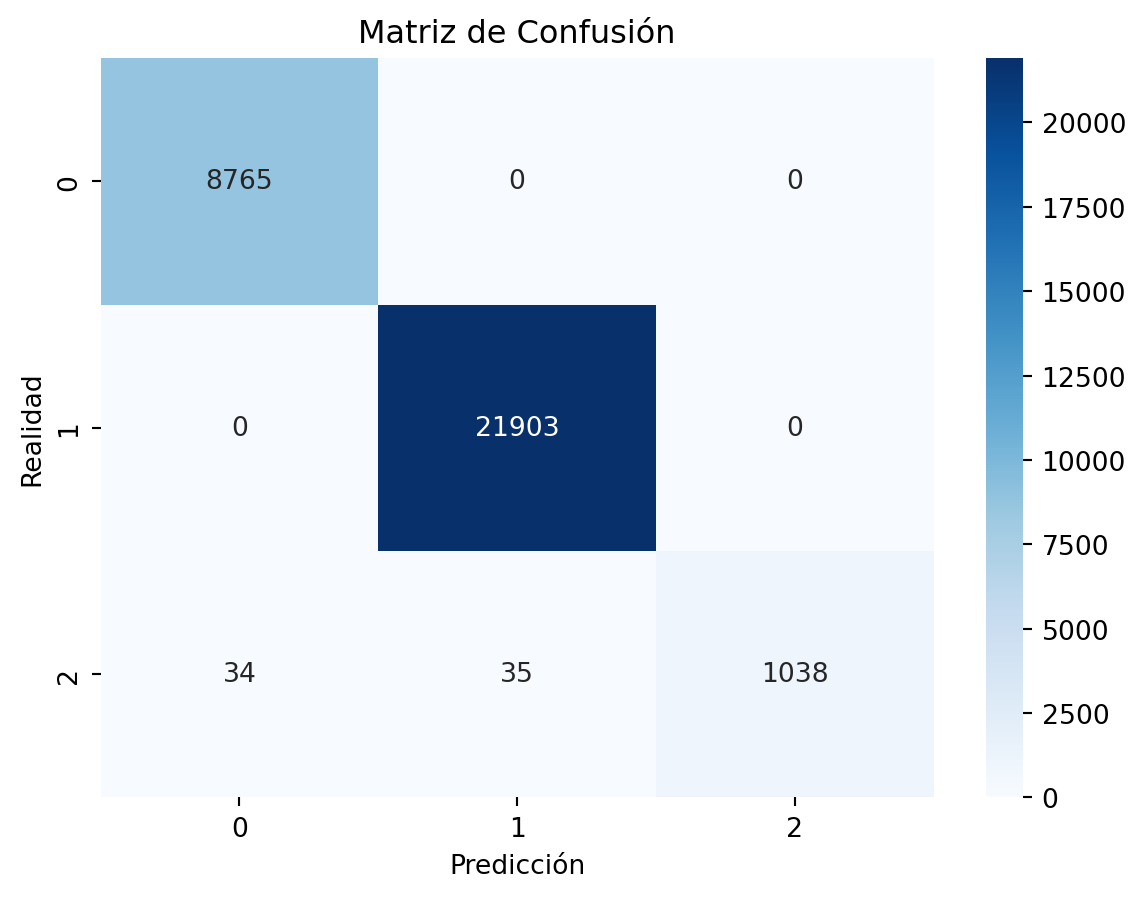
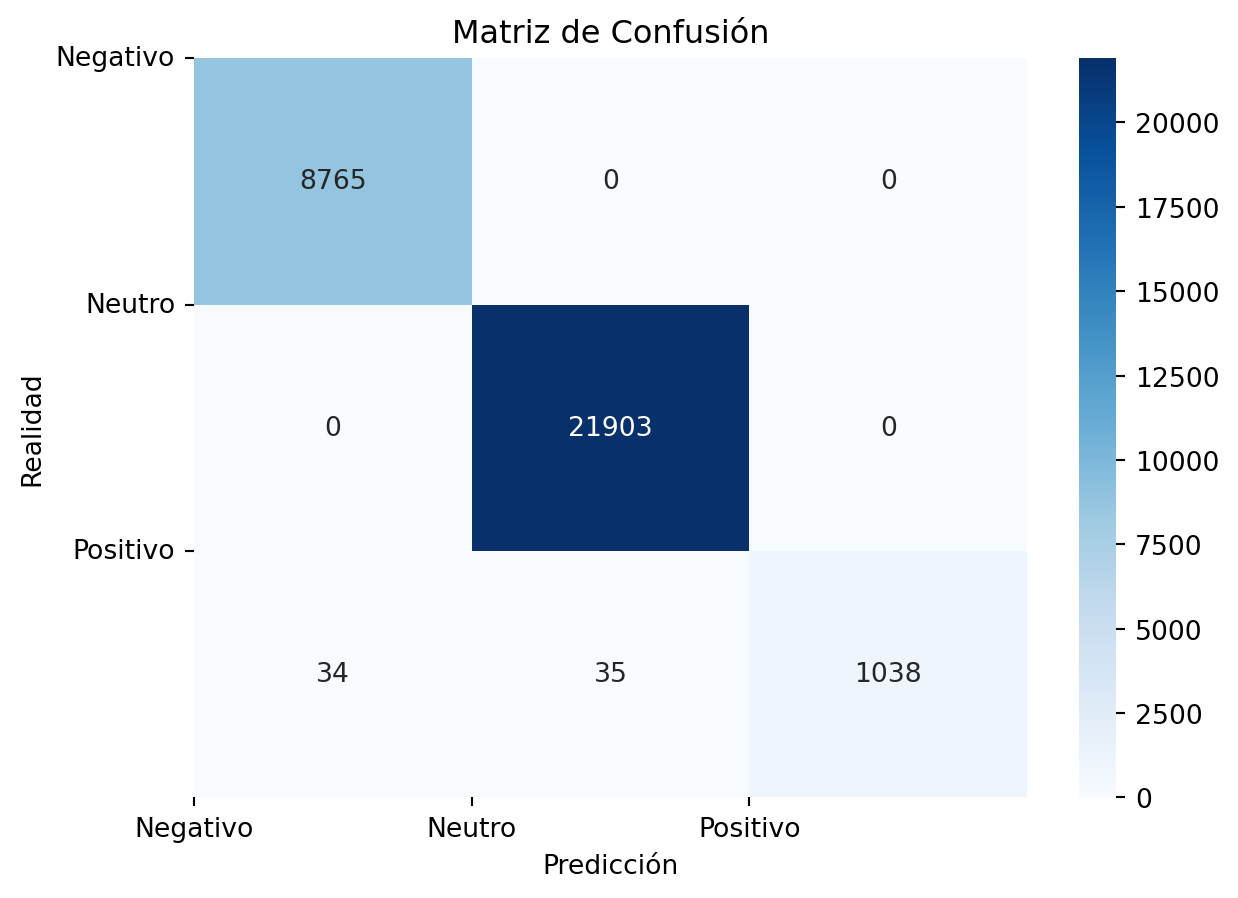
LaboV6

diff --git a/docs/laboratorio2.html b/docs/laboratorio2.html
@@ -327,7 +327,7 @@ pre > code.sourceCode > span > a:first-child::before { text-decoration: underlin
 </section>
 <section id="importar-librerías" class="level1">
 <h1>Importar librerías</h1>
-<div id="a6e59641" class="cell" data-execution_count="1">
+<div id="db11bc9c" class="cell" data-execution_count="1">
 <div class="code-copy-outer-scaffold"><div class="sourceCode cell-code" id="cb1"><pre class="sourceCode python code-with-copy"><code class="sourceCode python"><span id="cb1-1"><a href="#cb1-1" aria-hidden="true" tabindex="-1"></a><span class="im">import</span> pandas <span class="im">as</span> pd</span>
 <span id="cb1-2"><a href="#cb1-2" aria-hidden="true" tabindex="-1"></a><span class="im">from</span> sklearn.datasets <span class="im">import</span> fetch_20newsgroups</span>
 <span id="cb1-3"><a href="#cb1-3" aria-hidden="true" tabindex="-1"></a><span class="im">from</span> sklearn.model_selection <span class="im">import</span> train_test_split</span>
@@ -373,7 +373,7 @@ pre > code.sourceCode > span > a:first-child::before { text-decoration: underlin
 <h1>1. Explorar el dataset y eliminar los features que no considere relevantes para el análisis.</h1>
 <section id="cargar-dataset-y-explorar" class="level2">
 <h2 class="anchored" data-anchor-id="cargar-dataset-y-explorar">Cargar dataset y explorar</h2>
-<div id="86266040" class="cell" data-execution_count="2">
+<div id="c41f91c8" class="cell" data-execution_count="2">
 <div class="code-copy-outer-scaffold"><div class="sourceCode cell-code" id="cb3"><pre class="sourceCode python code-with-copy"><code class="sourceCode python"><span id="cb3-1"><a href="#cb3-1" aria-hidden="true" tabindex="-1"></a>url <span class="op">=</span> <span class="st">"https://raw.githubusercontent.com/erickedu85/dataset/refs/heads/master/tweets/tweets_totales_con_sentimiento_ml.csv"</span></span>
 <span id="cb3-2"><a href="#cb3-2" aria-hidden="true" tabindex="-1"></a></span>
 <span id="cb3-3"><a href="#cb3-3" aria-hidden="true" tabindex="-1"></a><span class="co"># 1. Cargar el dataset</span></span>
@@ -390,7 +390,7 @@ pre > code.sourceCode > span > a:first-child::before { text-decoration: underlin
 </section>
 <section id="explorar-el-dataset-eda" class="level2">
 <h2 class="anchored" data-anchor-id="explorar-el-dataset-eda">Explorar el dataset EDA</h2>
-<div id="2c0943a1" class="cell" data-execution_count="3">
+<div id="a963ed05" class="cell" data-execution_count="3">
 <div class="code-copy-outer-scaffold"><div class="sourceCode cell-code" id="cb5"><pre class="sourceCode python code-with-copy"><code class="sourceCode python"><span id="cb5-1"><a href="#cb5-1" aria-hidden="true" tabindex="-1"></a>df.head()</span>
 <span id="cb5-2"><a href="#cb5-2" aria-hidden="true" tabindex="-1"></a>df.info()</span>
 <span id="cb5-3"><a href="#cb5-3" aria-hidden="true" tabindex="-1"></a>df.describe()</span>
@@ -441,7 +441,7 @@ Columnas disponibles: ['tweetId', 'tweetUrl', 'content', 'isReply', 'replyTo', '
 </section>
 <section id="eliminar-features-no-relevantes" class="level2">
 <h2 class="anchored" data-anchor-id="eliminar-features-no-relevantes">Eliminar features no relevantes</h2>
-<div id="52a2f9c2" class="cell" data-execution_count="4">
+<div id="b2110248" class="cell" data-execution_count="4">
 <div class="code-copy-outer-scaffold"><div class="sourceCode cell-code" id="cb7"><pre class="sourceCode python code-with-copy"><code class="sourceCode python"><span id="cb7-1"><a href="#cb7-1" aria-hidden="true" tabindex="-1"></a><span class="co"># Eliminar columnas irrelevantes</span></span>
 <span id="cb7-2"><a href="#cb7-2" aria-hidden="true" tabindex="-1"></a>df <span class="op">=</span> df.drop(columns<span class="op">=</span>[<span class="st">'tweetId'</span>, <span class="st">'tweetUrl'</span>, <span class="st">'replyTo'</span>, <span class="st">'createdAt'</span>, <span class="st">'authorId'</span>, <span class="st">'authorName'</span>, <span class="st">'authorUsername'</span>,  <span class="st">'authorFollowers'</span>, <span class="st">'source'</span>, <span class="st">'hashtags'</span>, <span class="st">'mentions'</span>, <span class="st">'Date'</span>, <span class="st">'time_response'</span>, <span class="st">'account_age_days'</span>, <span class="st">'mentions_count'</span>, <span class="st">'hashtags_count'</span>, <span class="st">'content_length'</span>, <span class="st">'sentiment_polarity'</span>])</span>
 <span id="cb7-3"><a href="#cb7-3" aria-hidden="true" tabindex="-1"></a>df.info()</span></code></pre></div><button title="Copy to Clipboard" class="code-copy-button"><i class="bi"></i></button></div>
@@ -465,7 +465,7 @@ memory usage: 6.5+ MB</code></pre>
 </div>
 <section id="vader-es-una-herramienta-de-análisis-de-sentimientos-basada-en-reglas-altamente-optimizada-para-texto-en-redes-sociales-que-utiliza-un-diccionario-llamado-lexicon-diseñado-específicamente-para-el-análisis-de-sentimientos." class="level3">
 <h3 class="anchored" data-anchor-id="vader-es-una-herramienta-de-análisis-de-sentimientos-basada-en-reglas-altamente-optimizada-para-texto-en-redes-sociales-que-utiliza-un-diccionario-llamado-lexicon-diseñado-específicamente-para-el-análisis-de-sentimientos.">VADER es una herramienta de análisis de sentimientos basada en reglas, altamente optimizada para texto en redes sociales, que utiliza un diccionario llamado Lexicon , diseñado específicamente para el análisis de sentimientos.</h3>
-<div id="5bead288" class="cell" data-execution_count="5">
+<div id="cf8c87b9" class="cell" data-execution_count="5">
 <div class="code-copy-outer-scaffold"><div class="sourceCode cell-code" id="cb9"><pre class="sourceCode python code-with-copy"><code class="sourceCode python"><span id="cb9-1"><a href="#cb9-1" aria-hidden="true" tabindex="-1"></a><span class="kw">def</span> classify_sentiment(text):</span>
 <span id="cb9-2"><a href="#cb9-2" aria-hidden="true" tabindex="-1"></a>    <span class="co">"""</span></span>
 <span id="cb9-3"><a href="#cb9-3" aria-hidden="true" tabindex="-1"></a><span class="co">    Calcula el puntaje de polaridad compuesto (compound score)</span></span>
@@ -493,7 +493,7 @@ memory usage: 6.5+ MB</code></pre>
 <h1>2. Derivar o seleccionar la variable objetivo (target) para una tarea de clasificación.</h1>
 <section id="seleccionar-la-variable-objetivo" class="level2">
 <h2 class="anchored" data-anchor-id="seleccionar-la-variable-objetivo">Seleccionar la variable objetivo</h2>
-<div id="f46e148a" class="cell" data-execution_count="6">
+<div id="61adf256" class="cell" data-execution_count="6">
 <div class="code-copy-outer-scaffold"><div class="sourceCode cell-code" id="cb10"><pre class="sourceCode python code-with-copy"><code class="sourceCode python"><span id="cb10-1"><a href="#cb10-1" aria-hidden="true" tabindex="-1"></a><span class="co"># Clasificar los tweets según su sentimiento</span></span>
 <span id="cb10-2"><a href="#cb10-2" aria-hidden="true" tabindex="-1"></a>df[<span class="st">'sentiment'</span>] <span class="op">=</span> df[<span class="st">'content'</span>].<span class="bu">apply</span>(classify_sentiment) <span class="co"># Crear la variable objetivo basada en el contenido del tweet</span></span>
 <span id="cb10-3"><a href="#cb10-3" aria-hidden="true" tabindex="-1"></a></span>
@@ -513,7 +513,7 @@ Name: count, dtype: int64</code></pre>
 <h1>3. Preprocesar variables categóricas mediante técnicas como OneHotEncoder, OrdinalEncoder u otras que consideren pertinentes.</h1>
 <section id="preprocesar-variables-categóricas" class="level2">
 <h2 class="anchored" data-anchor-id="preprocesar-variables-categóricas">Preprocesar variables categóricas</h2>
-<div id="c89a20ce" class="cell" data-execution_count="7">
+<div id="801fa24a" class="cell" data-execution_count="7">
 <div class="code-copy-outer-scaffold"><div class="sourceCode cell-code" id="cb12"><pre class="sourceCode python code-with-copy"><code class="sourceCode python"><span id="cb12-1"><a href="#cb12-1" aria-hidden="true" tabindex="-1"></a><span class="im">from</span> sklearn.preprocessing <span class="im">import</span> OneHotEncoder</span>
 <span id="cb12-2"><a href="#cb12-2" aria-hidden="true" tabindex="-1"></a></span>
 <span id="cb12-3"><a href="#cb12-3" aria-hidden="true" tabindex="-1"></a><span class="co"># Aplicar OneHotEncoder a las variables categóricas</span></span>
@@ -528,7 +528,7 @@ Name: count, dtype: int64</code></pre>
 <h1>4. Preprocesar el contenido textual del tweet (content) utilizando técnicas de vectorización como CountVectorizer o TfidfVectorizer. Pueden aplicar limpieza de texto, eliminación de stopwords, y lematización si lo consideran relevante, etc.</h1>
 <section id="preprocesamiento-del-texto" class="level2">
 <h2 class="anchored" data-anchor-id="preprocesamiento-del-texto">Preprocesamiento del texto</h2>
-<div id="93b3536e" class="cell" data-execution_count="8">
+<div id="20e80c79" class="cell" data-execution_count="8">
 <div class="code-copy-outer-scaffold"><div class="sourceCode cell-code" id="cb13"><pre class="sourceCode python code-with-copy"><code class="sourceCode python"><span id="cb13-1"><a href="#cb13-1" aria-hidden="true" tabindex="-1"></a><span class="co"># Extraer el contenido textual</span></span>
 <span id="cb13-2"><a href="#cb13-2" aria-hidden="true" tabindex="-1"></a>corpus <span class="op">=</span> df[<span class="st">'content'</span>].astype(<span class="bu">str</span>).tolist()</span>
 <span id="cb13-3"><a href="#cb13-3" aria-hidden="true" tabindex="-1"></a><span class="co"># Crear el vectorizador (CountVectorizer o TfidfVectorizer)</span></span>
@@ -543,7 +543,7 @@ Name: count, dtype: int64</code></pre>
 <h1>5. Crear un pipeline de preprocesamiento utilizando ColumnTransformer o estructuras equivalentes para unir variables categóricas, textuales y numéricas (si aplica).</h1>
 <section id="crear-el-pipeline" class="level2">
 <h2 class="anchored" data-anchor-id="crear-el-pipeline">Crear el pipeline</h2>
-<div id="20a6d506" class="cell" data-execution_count="9">
+<div id="52a41cbf" class="cell" data-execution_count="9">
 <div class="code-copy-outer-scaffold"><div class="sourceCode cell-code" id="cb14"><pre class="sourceCode python code-with-copy"><code class="sourceCode python"><span id="cb14-1"><a href="#cb14-1" aria-hidden="true" tabindex="-1"></a><span class="im">from</span> sklearn.compose <span class="im">import</span> ColumnTransformer</span>
 <span id="cb14-2"><a href="#cb14-2" aria-hidden="true" tabindex="-1"></a><span class="im">from</span> sklearn.pipeline <span class="im">import</span> Pipeline</span>
 <span id="cb14-3"><a href="#cb14-3" aria-hidden="true" tabindex="-1"></a></span>
@@ -568,7 +568,7 @@ Name: count, dtype: int64</code></pre>
 <h1>6. Entrenar un modelo de clasificación. Aunque el foco no está en los modelos, deben aplicar al menos uno entre:</h1>
 <section id="logisticregression" class="level2">
 <h2 class="anchored" data-anchor-id="logisticregression">LogisticRegression</h2>
-<div id="3b05711c" class="cell" data-execution_count="10">
+<div id="277764a2" class="cell" data-execution_count="10">
 <div class="code-copy-outer-scaffold"><div class="sourceCode cell-code" id="cb15"><pre class="sourceCode python code-with-copy"><code class="sourceCode python"><span id="cb15-1"><a href="#cb15-1" aria-hidden="true" tabindex="-1"></a><span class="im">from</span> sklearn.linear_model <span class="im">import</span> LogisticRegression</span>
 <span id="cb15-2"><a href="#cb15-2" aria-hidden="true" tabindex="-1"></a><span class="im">from</span> sklearn.model_selection <span class="im">import</span> train_test_split</span>
 <span id="cb15-3"><a href="#cb15-3" aria-hidden="true" tabindex="-1"></a></span>
@@ -590,37 +590,44 @@ Name: count, dtype: int64</code></pre>
 <h1>7. Evaluar el desempeño del modelo utilizando:</h1>
 <section id="classification_report" class="level2">
 <h2 class="anchored" data-anchor-id="classification_report">classification_report</h2>
-<div id="2267e677" class="cell" data-execution_count="11">
+<div id="72b552ce" class="cell" data-execution_count="11">
 <div class="code-copy-outer-scaffold"><div class="sourceCode cell-code" id="cb16"><pre class="sourceCode python code-with-copy"><code class="sourceCode python"><span id="cb16-1"><a href="#cb16-1" aria-hidden="true" tabindex="-1"></a><span class="co">##  confusion_matrix</span></span>
 <span id="cb16-2"><a href="#cb16-2" aria-hidden="true" tabindex="-1"></a><span class="im">from</span> sklearn.metrics <span class="im">import</span> confusion_matrix</span>
 <span id="cb16-3"><a href="#cb16-3" aria-hidden="true" tabindex="-1"></a><span class="im">import</span> seaborn <span class="im">as</span> sns</span>
 <span id="cb16-4"><a href="#cb16-4" aria-hidden="true" tabindex="-1"></a><span class="im">import</span> matplotlib.pyplot <span class="im">as</span> plt</span>
 <span id="cb16-5"><a href="#cb16-5" aria-hidden="true" tabindex="-1"></a>cm <span class="op">=</span> confusion_matrix(y_test, y_pred)</span>
 <span id="cb16-6"><a href="#cb16-6" aria-hidden="true" tabindex="-1"></a>sns.heatmap(cm, annot<span class="op">=</span><span class="va">True</span>, fmt<span class="op">=</span><span class="st">'d'</span>, cmap<span class="op">=</span><span class="st">'Blues'</span>)  </span>
-<span id="cb16-7"><a href="#cb16-7" aria-hidden="true" tabindex="-1"></a>plt.xlabel(<span class="st">'Predicción'</span>)</span>
-<span id="cb16-8"><a href="#cb16-8" aria-hidden="true" tabindex="-1"></a>plt.ylabel(<span class="st">'Realidad'</span>)</span>
-<span id="cb16-9"><a href="#cb16-9" aria-hidden="true" tabindex="-1"></a>plt.title(<span class="st">'Matriz de Confusión'</span>)</span>
-<span id="cb16-10"><a href="#cb16-10" aria-hidden="true" tabindex="-1"></a>plt.show()  </span>
-<span id="cb16-11"><a href="#cb16-11" aria-hidden="true" tabindex="-1"></a><span class="co">##  ConfusionMatrixDisplay</span></span>
-<span id="cb16-12"><a href="#cb16-12" aria-hidden="true" tabindex="-1"></a><span class="im">from</span> sklearn.metrics <span class="im">import</span> ConfusionMatrixDisplay</span>
-<span id="cb16-13"><a href="#cb16-13" aria-hidden="true" tabindex="-1"></a>disp <span class="op">=</span> ConfusionMatrixDisplay(confusion_matrix<span class="op">=</span>cm)</span>
-<span id="cb16-14"><a href="#cb16-14" aria-hidden="true" tabindex="-1"></a>disp.plot()</span>
-<span id="cb16-15"><a href="#cb16-15" aria-hidden="true" tabindex="-1"></a>disp.ax_.set_title(<span class="st">'Matriz de Confusión'</span>)</span>
-<span id="cb16-16"><a href="#cb16-16" aria-hidden="true" tabindex="-1"></a><span class="co"># etiquetas de los ejes</span></span>
-<span id="cb16-17"><a href="#cb16-17" aria-hidden="true" tabindex="-1"></a>disp.ax_.set_xlabel(<span class="st">'Predicción'</span>)</span>
-<span id="cb16-18"><a href="#cb16-18" aria-hidden="true" tabindex="-1"></a>disp.ax_.set_ylabel(<span class="st">'Realidad'</span>)</span>
-<span id="cb16-19"><a href="#cb16-19" aria-hidden="true" tabindex="-1"></a>plt.show()</span></code></pre></div><button title="Copy to Clipboard" class="code-copy-button"><i class="bi"></i></button></div>
+<span id="cb16-7"><a href="#cb16-7" aria-hidden="true" tabindex="-1"></a>plt.xticks(ticks<span class="op">=</span><span class="bu">range</span>(<span class="bu">len</span>(model.classes_)), labels<span class="op">=</span>model.classes_)</span>
+<span id="cb16-8"><a href="#cb16-8" aria-hidden="true" tabindex="-1"></a>plt.yticks(ticks<span class="op">=</span><span class="bu">range</span>(<span class="bu">len</span>(model.classes_)), labels<span class="op">=</span>model.classes_, rotation<span class="op">=</span><span class="dv">0</span>)</span>
+<span id="cb16-9"><a href="#cb16-9" aria-hidden="true" tabindex="-1"></a>plt.xlabel(<span class="st">'Predicción'</span>)</span>
+<span id="cb16-10"><a href="#cb16-10" aria-hidden="true" tabindex="-1"></a>plt.ylabel(<span class="st">'Realidad'</span>)</span>
+<span id="cb16-11"><a href="#cb16-11" aria-hidden="true" tabindex="-1"></a>plt.title(<span class="st">'Matriz de Confusión'</span>)</span>
+<span id="cb16-12"><a href="#cb16-12" aria-hidden="true" tabindex="-1"></a>plt.show()  </span>
+<span id="cb16-13"><a href="#cb16-13" aria-hidden="true" tabindex="-1"></a><span class="co">##  ConfusionMatrixDisplay</span></span>
+<span id="cb16-14"><a href="#cb16-14" aria-hidden="true" tabindex="-1"></a><span class="im">from</span> sklearn.metrics <span class="im">import</span> ConfusionMatrixDisplay</span>
+<span id="cb16-15"><a href="#cb16-15" aria-hidden="true" tabindex="-1"></a>disp <span class="op">=</span> ConfusionMatrixDisplay(confusion_matrix<span class="op">=</span>cm)</span>
+<span id="cb16-16"><a href="#cb16-16" aria-hidden="true" tabindex="-1"></a>disp.plot()</span>
+<span id="cb16-17"><a href="#cb16-17" aria-hidden="true" tabindex="-1"></a>disp.ax_.set_title(<span class="st">'Matriz de Confusión'</span>)</span>
+<span id="cb16-18"><a href="#cb16-18" aria-hidden="true" tabindex="-1"></a><span class="co"># etiquetas de los ejes</span></span>
+<span id="cb16-19"><a href="#cb16-19" aria-hidden="true" tabindex="-1"></a><span class="co"># etiqueta los labels de los ejes</span></span>
+<span id="cb16-20"><a href="#cb16-20" aria-hidden="true" tabindex="-1"></a>disp.ax_.set_xticks(<span class="bu">range</span>(<span class="bu">len</span>(model.classes_)))</span>
+<span id="cb16-21"><a href="#cb16-21" aria-hidden="true" tabindex="-1"></a>disp.ax_.set_yticks(<span class="bu">range</span>(<span class="bu">len</span>(model.classes_))) </span>
+<span id="cb16-22"><a href="#cb16-22" aria-hidden="true" tabindex="-1"></a>disp.ax_.set_xticklabels(model.classes_)</span>
+<span id="cb16-23"><a href="#cb16-23" aria-hidden="true" tabindex="-1"></a>disp.ax_.set_yticklabels(model.classes_)</span>
+<span id="cb16-24"><a href="#cb16-24" aria-hidden="true" tabindex="-1"></a>disp.ax_.set_xlabel(<span class="st">'Predicción'</span>)</span>
+<span id="cb16-25"><a href="#cb16-25" aria-hidden="true" tabindex="-1"></a>disp.ax_.set_ylabel(<span class="st">'Realidad'</span>)</span>
+<span id="cb16-26"><a href="#cb16-26" aria-hidden="true" tabindex="-1"></a>plt.show()</span></code></pre></div><button title="Copy to Clipboard" class="code-copy-button"><i class="bi"></i></button></div>
 <div class="cell-output cell-output-display">
 <div>
 <figure class="figure">
-<p><img src="laboratorio2_files/figure-html/cell-12-output-1.png" width="573" height="449" class="figure-img"></p>
+<p><img src="laboratorio2_files/figure-html/cell-12-output-1.png" width="619" height="449" class="figure-img"></p>
 </figure>
 </div>
 </div>
 <div class="cell-output cell-output-display">
 <div>
 <figure class="figure">
-<p><img src="laboratorio2_files/figure-html/cell-12-output-2.png" width="521" height="449" class="figure-img"></p>
+<p><img src="laboratorio2_files/figure-html/cell-12-output-2.png" width="572" height="449" class="figure-img"></p>
 </figure>
 </div>
 </div>
@@ -629,7 +636,7 @@ Name: count, dtype: int64</code></pre>
 </section>
 <section id="calcular-accuracy-precision-recall-y-f1-score" class="level1">
 <h1>calcular accuracy, precision, recall y F1-score</h1>
-<div id="6fd022cb" class="cell" data-execution_count="12">
+<div id="9eb984fd" class="cell" data-execution_count="12">
 <div class="code-copy-outer-scaffold"><div class="sourceCode cell-code" id="cb17"><pre class="sourceCode python code-with-copy"><code class="sourceCode python"><span id="cb17-1"><a href="#cb17-1" aria-hidden="true" tabindex="-1"></a><span class="im">from</span> sklearn.metrics <span class="im">import</span> accuracy_score, precision_score, recall_score, f1_score</span>
 <span id="cb17-2"><a href="#cb17-2" aria-hidden="true" tabindex="-1"></a></span>
 <span id="cb17-3"><a href="#cb17-3" aria-hidden="true" tabindex="-1"></a>accuracy <span class="op">=</span> accuracy_score(y_test, y_pred)</span>
